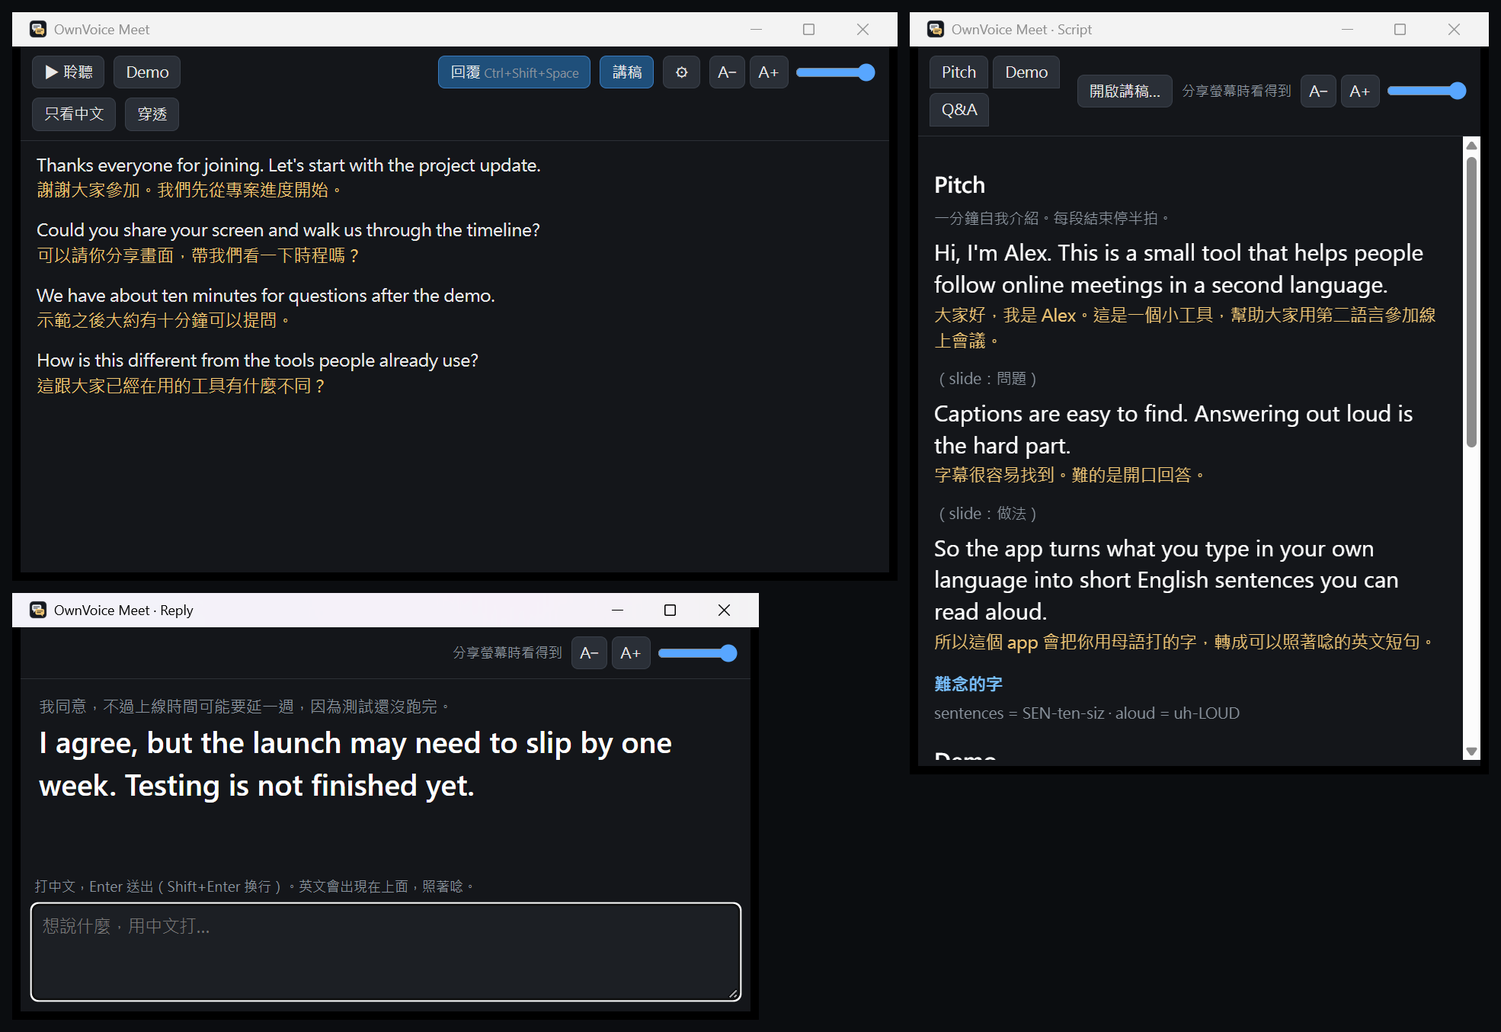
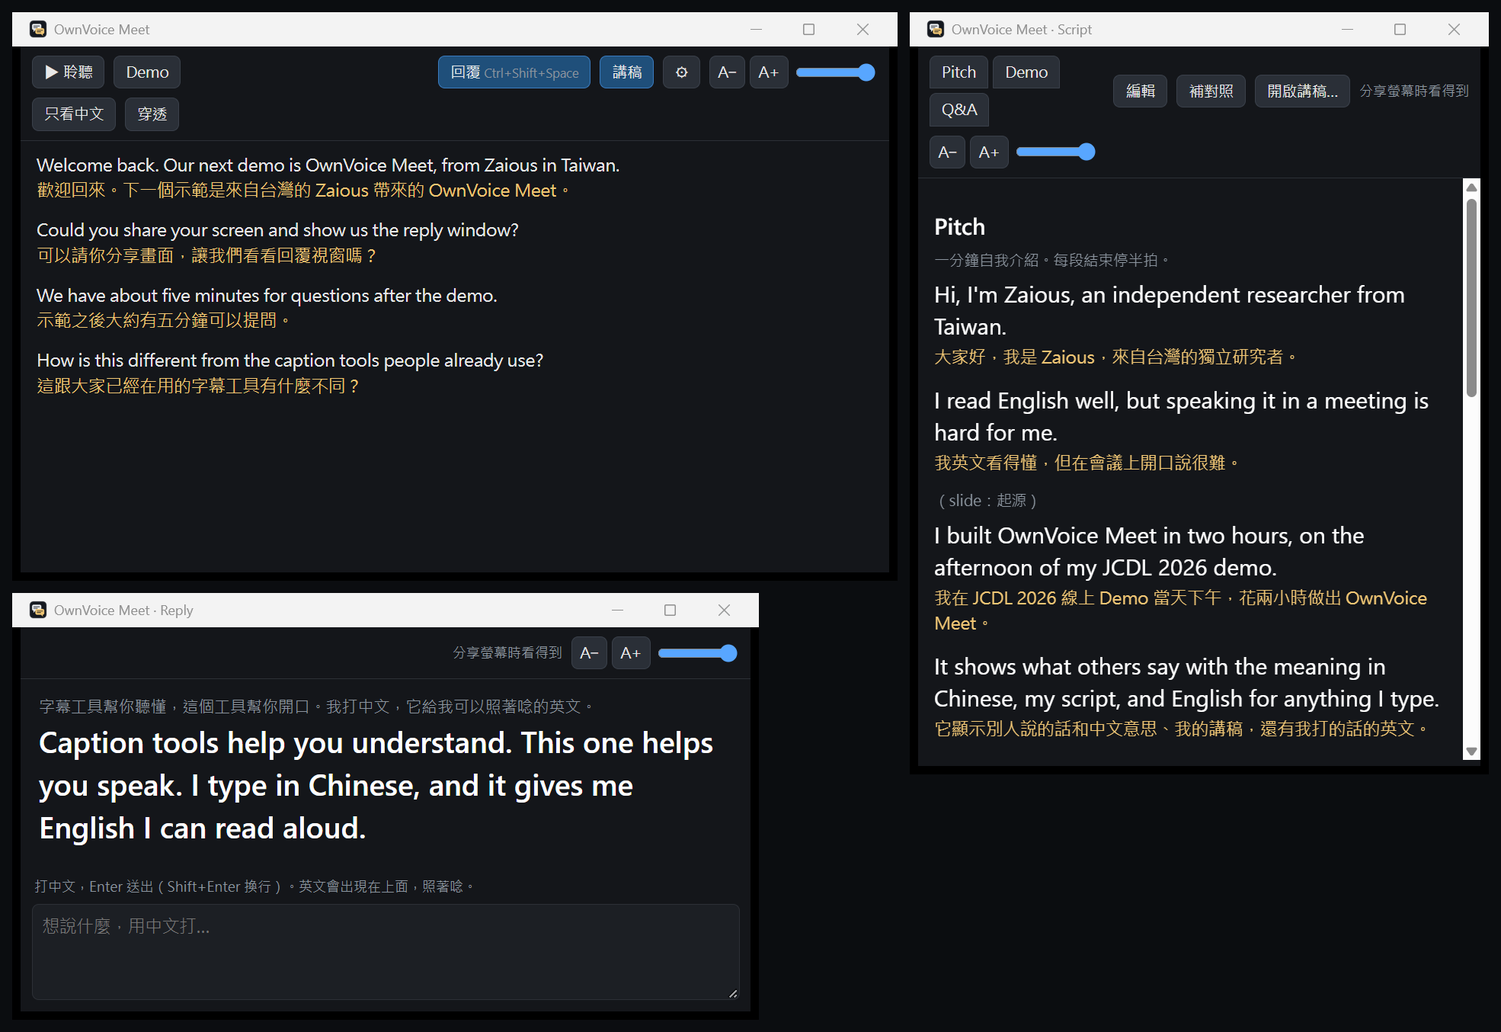
Demo introduces the author; README in Chinese first
- Demo captions, script and sample reply now introduce Zaious and
  OwnVoice Meet instead of a made-up speaker; overview screenshot retaken
- README: Chinese first for the Chinese-speaking audience, full English
  section after it

diff --git a/src-tauri/src/demo.rs b/src-tauri/src/demo.rs
@@ -11,14 +11,14 @@ use tauri::{AppHandle, Emitter, Manager};
 use crate::session::{Reply, Segment, Session};
 
 const SCRIPT: &str = include_str!("../../examples/scripts/demo.md");
-const REPLY_ZH: &str = "我同意，不過上線時間可能要延一週，因為測試還沒跑完。";
-const REPLY_EN: &str = "I agree, but the launch may need to slip by one week. Testing is not finished yet.";
+const REPLY_ZH: &str = "字幕工具幫你聽懂，這個工具幫你開口。我打中文，它給我可以照著唸的英文。";
+const REPLY_EN: &str = "Caption tools help you understand. This one helps you speak. I type in Chinese, and it gives me English I can read aloud.";
 
 const LINES: &[(&str, &str)] = &[
-    ("Thanks everyone for joining. Let's start with the project update.", "謝謝大家參加。我們先從專案進度開始。"),
-    ("Could you share your screen and walk us through the timeline?", "可以請你分享畫面，帶我們看一下時程嗎？"),
-    ("We have about ten minutes for questions after the demo.", "示範之後大約有十分鐘可以提問。"),
-    ("How is this different from the tools people already use?", "這跟大家已經在用的工具有什麼不同？"),
+    ("Welcome back. Our next demo is OwnVoice Meet, from Zaious in Taiwan.", "歡迎回來。下一個示範是來自台灣的 Zaious 帶來的 OwnVoice Meet。"),
+    ("Could you share your screen and show us the reply window?", "可以請你分享畫面，讓我們看看回覆視窗嗎？"),
+    ("We have about five minutes for questions after the demo.", "示範之後大約有五分鐘可以提問。"),
+    ("How is this different from the caption tools people already use?", "這跟大家已經在用的字幕工具有什麼不同？"),
 ];
 
 pub fn start(app: AppHandle) {

diff --git a/README.md b/README.md
@@ -1,18 +1,112 @@
 # OwnVoice Meet
 
+**聽得懂會議，用自己的聲音回答。**
+
+*Understand the meeting. Answer in your own voice.* · [English](#english)
+
+給英文「看得懂、說不太出口」的人。想說什麼就用中文打，OwnVoice Meet 把它變成好唸的口語英文短句，你照著唸。話是你自己的，聲音也是你自己的。
+
+> 狀態：0.1.1，Windows。已經接上真實服務使用。架構說明見 [docs/ARCHITECTURE.md](docs/ARCHITECTURE.md)。
+
+![聽到提問並即時翻譯，講稿裡打開準備好的回答，中文回覆變成要唸的英文](docs/media/demo.gif)
+
+*用真實流程錄製（Gemini Live 聽、Claude Haiku 5.5 翻），講稿是作者在 JCDL 2026 用的那份：第一個問題右邊講稿裡已經準備好答案；第二個問題用中文打回覆，變成要唸的英文。提問是語音合成的。[MP4 版](docs/media/demo.mp4)。*
+
+**使用手冊：[docs/MANUAL.md](docs/MANUAL.md)**（安裝、開會流程、講稿、省錢組合、本機執行、常見問題）
+
+## 它做什麼
+
+三個視窗，用得到的才開，各自放在順手的位置。
+
+| 視窗 | 功能 |
+|---|---|
+| **回覆** | 打中文、按 Enter，大字英文出現，照著唸。它知道會議剛剛在講什麼、你的講稿裡寫了什麼，所以名字和術語會用對。在 Zoom、Teams 裡按 `Ctrl+Shift+Space` 就會叫出來。建議放在攝影機旁邊。 |
+| **字幕** | 別人說的英文即時出現，每句下面接著中文意思。 |
+| **講稿與備忘** | 你的簡報稿、準備好的回答和備忘，每行附中文意思，分頁顯示，連結和指令可以一鍵複製。直接在視窗裡寫（內建範本與格式說明），寫英文或中文都行：**補對照** 會補上另一半，英文句補中文意思，中文句補要唸的英文。會自動保存，下次打開還在。真實範例見 [JCDL 2026 講稿](examples/scripts/journal-atlas-jcdl2026.md)。 |
+
+每個視窗有自己的字級（A− / A+）和背景透明度，會記住。字幕可以只顯示中文，也可以讓滑鼠點擊穿過去操作下面的會議（用 `Ctrl+Shift+F8` 或系統匣圖示關掉）。分享螢幕時，回覆與講稿視窗不會出現在分享畫面、錄影和截圖裡（需 Windows 10 2004 以上；設定裡可以關）。字幕視窗不隱藏。
+
+## 它不做什麼
+
+它不會替你作答。沒有 AI 代寫的回答，也沒有合成語音：說什麼由你決定，也由你自己說出口。OwnVoice Meet 只幫你處理英文。
+
+## 起源
+
+我是 Zaious，來自台灣的獨立研究者（ChronicleCore Studio 編年史記工作室），英文看得懂、說不太出口。2026 年 10 月 16 日，我要在 JCDL 2026（ACM/IEEE 數位圖書館聯合會議）的線上 Demo 場發表：一分鐘簡報，接著在 breakout room 回答提問。當天下午我花大約兩小時做出第一版（Python、自己 GPU 上的 Whisper、Claude Haiku 5.5），開著它撐完 1.5 小時的場次：別人說話時看字幕和中文意思，旁邊是中英對照的講稿和準備好的回答，沒準備到的就用回覆框。
+
+那一整天的翻譯費用是 **0.11 美元**（Claude Haiku 5.5，Claude Console 數字）：輸入 5,570,065 個 token、輸出 28,585 個，包含開發時的測試。輸入大多是講稿：每次請求都會帶著它，名字和術語才會對；它從提示快取讀取，所以幾乎不花錢。語音辨識跑在自己的 GPU 上，不用錢。
+
+之後很多人來要這個工具。OwnVoice Meet 就是為了分享而重做的版本：語音辨識可以走雲端或在電腦上跑，不需要 GPU，服務也由你挑。那天晚上講稿的公開部分（簡報和準備好的回答）在 [examples/scripts/journal-atlas-jcdl2026.md](examples/scripts/journal-atlas-jcdl2026.md)。
+
+![Demo 模式，不需要 key：字幕、要唸的回覆、中英對照講稿](docs/images/overview.png)
+
+*按 **Demo** 就能看到三個視窗在做什麼，不需要音訊也不需要 key。*
+
+## 服務與費用
+
+用你自己的 key；設定裡有每家申請 key 的連結，key 存在系統的認證管理員。聽和翻各選一個：
+
+| 聽（語音辨識） | 翻（翻譯與回覆） |
+|---|---|
+| Gemini 3.5 Transcribe Live（即時，約每小時 0.54 美元） | Claude Haiku 5.5、Sonnet 5.5 |
+| OpenAI gpt-live-transcribe（即時，約每小時 1.02 美元） | OpenAI gpt-6-luna、gpt-6.1-sol |
+| OpenAI gpt-4o-mini-transcribe（一句講完才出字，約每小時 0.18 美元） | Gemini 3.5 Flash-Lite、3.8 Flash |
+| 自己電腦上的 Whisper 伺服器（免費） | 自己電腦上的 vLLM 或 Ollama（免費） |
+| Windows 11 即時輔助字幕（即時、免費、在電腦上辨識、不需要 key；實驗功能，設定會帶你完成一次性設定） | |
+
+長句子講到一半就會先翻（約 4 秒後，之後每 2 秒更新），不用等講者停下來；句子講完再換成完整翻譯。
+
+翻譯選最快一級時每小時只要幾美分（例如 Claude Haiku 5.5，忙碌的一小時約 0.03 美元）。設定裡每個選項都列出價格和實測速度，也會記錄估算用量。價格是官方牌價，實際以各家帳單為準。省錢組合見 [使用手冊第 6 節](docs/MANUAL.md#6-省錢)。
+
+<img src="docs/images/settings.png" alt="設定：每個選項的每小時價格、速度、強項、注意事項與需要什麼" width="380">
+
+全部在自己電腦上跑，只要在設定裡填網址：見 [docs/LOCAL.md](docs/LOCAL.md)。Apple 裝置上的選項（macOS 26）規劃中。
+
+## 隱私
+
+會議聲音會送到你選的語音辨識服務，文字送到你選的翻譯模型，用的是你自己的帳號。有些會議有保密要求，有些地方轉錄談話需要所有人同意，開始前請先確認。會拿免費層資料訓練的服務（Gemini 是），請用付費層的 key。選本機伺服器，一切都留在你的電腦；聽的部分選 Windows 即時輔助字幕也一樣。
+
+## 下載
+
+Windows 10、11，到 [Releases](https://github.com/Zaious/ownvoice-meet/releases)：
+
+- **安裝版**（`OwnVoice.Meet_<版本>_x64-setup.exe`）：只裝給目前使用者，不需要系統管理員權限。設定 → 檢查更新會找到新版，按「更新並重新啟動」會先驗證簽章再安裝。
+- **免安裝版**（`OwnVoice.Meet_<版本>_x64_portable.zip`）：解壓縮到任何地方，執行 `OwnVoice Meet.exe`。不會自己更新；檢查更新會連到下載頁。
+
+程式還沒有數位簽章，Windows 可能顯示「Windows 已保護您的電腦」：按「其他資訊」，再按「仍要執行」。兩種都需要 Microsoft Edge WebView2 Runtime（Windows 11 內建）。只有按「檢查更新」時才會連到 GitHub。
+
+## 從原始碼建置
+
+需要 Node.js 20+、Rust（stable），Windows 上需要 WebView2 Runtime（Windows 11 內建）。
+
+```
+npm install
+npx tauri dev
+```
+
+按 **Demo** 可以在沒有音訊和 key 的情況下看字幕。開發時把 `env.example` 複製成 `.env.local`（不會進 git）填入 key，debug 版會讀它。
+
+檢查：`npm test`、`npm run typecheck`，以及在 `src-tauri` 裡跑 `cargo test --lib`；CI 每次 push 都會跑。需要呼叫真實服務或喇叭的測試標為 ignored，清單在 [docs/ARCHITECTURE.md](docs/ARCHITECTURE.md)。
+
+## 支持作者
+
+如果它幫上你，歡迎到 [portaly.cc/chroniclecore](https://portaly.cc/chroniclecore) 贊助（設定 → 關於 也有連結）。
+
+## 授權
+
+Apache License 2.0，見 [LICENSE](LICENSE) 與 [NOTICE](NOTICE)；從其他專案移植的邏輯列在 [THIRD_PARTY_NOTICES.md](THIRD_PARTY_NOTICES.md)。以 OwnVoice Meet 為基礎的作品必須附上 NOTICE；「OwnVoice Meet」這個名稱不授權給其他作品使用。
+
+---
+
+## English
+
 **Understand the meeting. Answer in your own voice.**
 
-For people who join meetings, talks and Q&A in English but read it better than they speak it. Type what you mean in your own language; OwnVoice Meet turns it into short, natural English that you read aloud. The words are yours, and so is the voice.
+For people who join meetings, talks and Q&A in English but read it better than they speak it. Type what you mean in your own language; OwnVoice Meet turns it into short, natural English that you read aloud. The words are yours, and so is the voice. The interface is in Traditional Chinese for now.
 
-> Status: 0.1.1, Windows. Working with real services. See [docs/ARCHITECTURE.md](docs/ARCHITECTURE.md).
+Status: 0.1.1, Windows. Working with real services. See [docs/ARCHITECTURE.md](docs/ARCHITECTURE.md). The demo above was recorded with the real pipeline (Gemini Live listening, Claude Haiku 5.5 translating) and the author's JCDL 2026 script; the questions are text-to-speech.
 
-![A question is heard and translated, the prepared answer is open in the script, and a Chinese reply becomes English to read aloud](docs/media/demo.gif)
-
-*Recorded with the real pipeline (Gemini Live listening, Claude Haiku 5.5 translating) and the author's JCDL 2026 script: one question has a prepared answer on the right; for the other, a reply typed in Chinese becomes English to read aloud. The questions are text-to-speech. [MP4 version](docs/media/demo.mp4).*
-
-**使用手冊（中文）：[docs/MANUAL.md](docs/MANUAL.md)**, from installing to saving money and running everything locally.
-
-## What it does
+### What it does
 
 Three windows; use the ones you need and put each where it helps.
 
@@ -24,23 +118,19 @@ Three windows; use the ones you need and put each where it helps.
 
 Each window has its own text size (A− / A+) and background opacity, remembered between runs. Captions can show the translation only, and can let clicks pass through to the meeting underneath (turn it off with `Ctrl+Shift+F8` or the tray icon). When you share your screen, the Reply and Script windows stay off the share, recordings and screenshots (Windows 10 2004 or later; can be turned off in Settings). The Captions window is not hidden.
 
-## What it does not do
+### What it does not do
 
 It does not answer for you. There are no AI-written replies and no synthetic voice: you decide what to say, and you say it. OwnVoice Meet helps with the English.
 
-## How it started
+### How it started
 
-I'm an independent researcher from Taiwan, and I read English much better than I speak it. On 16 October 2026 I had an online demo at JCDL 2026, the ACM/IEEE Joint Conference on Digital Libraries: a one-minute pitch, then questions in breakout rooms. That afternoon I built a first version in about two hours (Python, Whisper on my own GPU, Claude Haiku 5.5) and kept it open through the whole 1.5-hour session: captions with the Chinese meaning while others spoke, my bilingual script and prepared answers beside them, and the reply box for anything I had not prepared.
+I'm Zaious, an independent researcher from Taiwan, and I read English much better than I speak it. On 16 October 2026 I had an online demo at JCDL 2026, the ACM/IEEE Joint Conference on Digital Libraries: a one-minute pitch, then questions in breakout rooms. That afternoon I built a first version in about two hours (Python, Whisper on my own GPU, Claude Haiku 5.5) and kept it open through the whole 1.5-hour session: captions with the Chinese meaning while others spoke, my bilingual script and prepared answers beside them, and the reply box for anything I had not prepared.
 
 Translation for that whole day cost **US$0.11** on Claude Haiku 5.5, according to the Claude Console: 5,570,065 input tokens and 28,585 output tokens, including the testing while I built it. Most of the input is the prepared script, which goes with every request so names and terms come out right; it is read from the prompt cache, which is why it costs so little. Speech recognition ran on my own GPU, so it cost nothing.
 
-Many people asked for the tool afterwards. OwnVoice Meet is that tool rebuilt to be shared: speech recognition in the cloud or on the device, so you do not need a GPU, and your choice of providers. The public part of that evening's script (the pitch and the prepared answers) is in [examples/scripts/journal-atlas-jcdl2026.md](examples/scripts/journal-atlas-jcdl2026.md).
+Many people asked for the tool afterwards. OwnVoice Meet is that tool rebuilt to be shared: speech recognition in the cloud or on the device, so you do not need a GPU, and your choice of providers. Press **Demo** to see all three windows without audio or keys.
 
-![Demo mode, no keys needed: captions, a reply to read aloud and a bilingual script](docs/images/overview.png)
-
-*Press **Demo** to see all three windows without audio or keys.*
-
-## Providers and cost
+### Providers and cost
 
 Bring your own keys; Settings links to each provider's key page, and keys are kept in the system keychain. Pick one option for listening and one for translation:
 
@@ -54,19 +144,13 @@ Bring your own keys; Settings links to each provider's key page, and keys are ke
 
 Long sentences are translated while they are still being spoken (after about 4 seconds, then every 2 seconds), so you are not left waiting for the speaker to pause; the final translation replaces it when the sentence ends.
 
-Translation costs a few cents an hour on the fastest models (for example Claude Haiku 5.5, about $0.03 for a busy hour). Settings shows every option with its price and measured speed, and tracks estimated usage. Prices are list prices; your provider's bill is the authority.
+Translation costs a few cents an hour on the fastest models (for example Claude Haiku 5.5, about $0.03 for a busy hour). Settings shows every option with its price, measured speed, strengths, cautions and what it needs, and tracks estimated usage. Prices are list prices; your provider's bill is the authority. Running everything locally is a matter of URLs in Settings: see [docs/LOCAL.md](docs/LOCAL.md). Apple on-device options (macOS 26) are planned.
 
-<img src="docs/images/settings.png" alt="Settings: each option with its hourly price, speed, strengths, cautions and what it needs" width="380">
-
-Each option in Settings shows its price, measured speed, strengths, cautions and what it needs, with a link to the provider's key page.
-
-Running everything locally is a matter of URLs in Settings: see [docs/LOCAL.md](docs/LOCAL.md). Apple on-device options (macOS 26) are planned.
-
-## Privacy
+### Privacy
 
 Meeting audio goes to the speech service you choose, and text to the language model you choose, under your own account. Some meetings are confidential, and some places require everyone's consent before a conversation is transcribed: check before you turn it on. Use paid-tier keys where the provider uses free-tier data for training (Gemini does). Local servers keep everything on your machine, and so does Windows Live Captions for listening.
 
-## Download
+### Download
 
 Windows 10 and 11, from [Releases](https://github.com/Zaious/ownvoice-meet/releases):
 
@@ -75,7 +159,7 @@ Windows 10 and 11, from [Releases](https://github.com/Zaious/ownvoice-meet/relea
 
 The builds are not code-signed yet, so Windows may say "Windows protected your PC": choose **More info**, then **Run anyway**. Both need the Microsoft Edge WebView2 Runtime, which Windows 11 includes. OwnVoice Meet contacts GitHub only when you press Check for updates.
 
-## Building from source
+### Building from source
 
 Requirements: Node.js 20+, Rust (stable), and on Windows the WebView2 runtime (included in Windows 11).
 
@@ -88,26 +172,6 @@ Press **Demo** to see captions without audio or keys. For development, copy `env
 
 Checks: `npm test`, `npm run typecheck`, and `cargo test --lib` in `src-tauri`; CI runs them on every push. Tests that call real services or need speakers are marked ignored; [docs/ARCHITECTURE.md](docs/ARCHITECTURE.md) lists them.
 
-## 中文說明
+### Support and license
 
-**聽得懂會議，用自己的聲音回答。**
-
-給英文「看得懂、說不太出口」的人：想說什麼就用中文打，OwnVoice Meet 把它變成好唸的口語英文短句，你照著唸。話是你自己的，聲音也是你自己的。旁邊有對方發言的英文字幕和中文意思，還能開一份中英對照的講稿與 Q&A 備忘。
-
-它不會替你作答：沒有 AI 代寫的回答，也沒有合成語音。
-
-**完整使用手冊：[docs/MANUAL.md](docs/MANUAL.md)**（安裝、開會流程、講稿、省錢組合、本機執行、常見問題）。
-
-**起源：** 作者是來自台灣的獨立研究者，英文看得懂、說不太出口。2026 年 10 月 16 日要在 JCDL 2026（ACM/IEEE 數位圖書館聯合會議）的線上 Demo 場發表，有一分鐘簡報和 breakout room 問答。當天下午花大約兩小時做出第一版，開著它撐完 1.5 小時的場次。那一整天 Claude Haiku 5.5 的翻譯費用是 **0.11 美元**（Claude Console 數字，含開發測試），語音辨識跑在自己的 GPU 上，不用錢。之後很多人來要這個工具，OwnVoice Meet 就是為了分享而重做的版本。
-
-**支持作者：** 如果它幫上你，歡迎到 [portaly.cc/chroniclecore](https://portaly.cc/chroniclecore) 贊助。
-
-下載（Windows 10、11）：到 [Releases](https://github.com/Zaious/ownvoice-meet/releases) 選安裝版（`…_x64-setup.exe`，只裝給目前使用者、不需系統管理員權限，可以在設定裡「檢查更新」後自動更新）或免安裝版（`…_x64_portable.zip`，解壓縮就能用，不會自己更新）。程式還沒有數位簽章，Windows 若顯示「Windows 已保護您的電腦」，按「其他資訊」再按「仍要執行」。
-
-## Support
-
-If OwnVoice Meet helps you, you can support the author at [portaly.cc/chroniclecore](https://portaly.cc/chroniclecore) (also linked from Settings > 關於).
-
-## License
-
-Apache License 2.0. See [LICENSE](LICENSE) and [NOTICE](NOTICE); logic ported from other projects is credited in [THIRD_PARTY_NOTICES.md](THIRD_PARTY_NOTICES.md). A work based on OwnVoice Meet must carry the NOTICE; the name "OwnVoice Meet" is not licensed for other works.
+If OwnVoice Meet helps you, you can support the author at [portaly.cc/chroniclecore](https://portaly.cc/chroniclecore). Apache License 2.0: see [LICENSE](LICENSE) and [NOTICE](NOTICE); logic ported from other projects is credited in [THIRD_PARTY_NOTICES.md](THIRD_PARTY_NOTICES.md). A work based on OwnVoice Meet must carry the NOTICE; the name "OwnVoice Meet" is not licensed for other works.

diff --git a/examples/scripts/demo.md b/examples/scripts/demo.md
@@ -1,32 +1,40 @@
 # Pitch
 ! 一分鐘自我介紹。每段結束停半拍。
-Hi, I'm Alex. This is a small tool that helps people follow online meetings in a second language.
-> 大家好，我是 Alex。這是一個小工具，幫助大家用第二語言參加線上會議。
+Hi, I'm Zaious, an independent researcher from Taiwan.
+> 大家好，我是 Zaious，來自台灣的獨立研究者。
+I read English well, but speaking it in a meeting is hard for me.
+> 我英文看得懂，但在會議上開口說很難。
 
-! （slide：問題）
-Captions are easy to find. Answering out loud is the hard part.
-> 字幕很容易找到。難的是開口回答。
+! （slide：起源）
+I built OwnVoice Meet in two hours, on the afternoon of my JCDL 2026 demo.
+> 我在 JCDL 2026 線上 Demo 當天下午，花兩小時做出 OwnVoice Meet。
+It shows what others say with the meaning in Chinese, my script, and English for anything I type.
+> 它顯示別人說的話和中文意思、我的講稿，還有我打的話的英文。
 
-! （slide：做法）
-So the app turns what you type in your own language into short English sentences you can read aloud.
-> 所以這個 app 會把你用母語打的字，轉成可以照著唸的英文短句。
+! （slide：重點）
+It never answers for me. The words are mine, and so is the voice.
+> 它不會替我回答。話是我自己的，聲音也是我自己的。
 
 ## 難念的字
-! sentences = SEN-ten-siz · aloud = uh-LOUD
+! researcher = ree-SER-cher · independent = in-dih-PEN-dent
 
 # Demo
-! 先在瀏覽器開好示範頁。
+! 先開好 GitHub 頁面。
 ```copy:link
-https://example.com/demo
+https://github.com/Zaious/ownvoice-meet
 ```
-Let me show you how it works with a real question.
-> 我用一個真實的問題示範給大家看。
+Let me show you how I answer a question I did not prepare for.
+> 我示範一下，遇到沒準備的問題時我怎麼回答。
 
 # Q&A
-Q: Does it work offline?
-> 問：可以離線使用嗎？
-Not by default. It uses cloud services with your own keys. You can point it at your own servers instead.
-> 預設不行。它用你自己的 key 呼叫雲端服務。你也可以改接自己架的伺服器。
+Q: Does it answer for you?
+> 問：它會替你回答嗎？
+No. I type what I mean in Chinese, and it gives me short English to read aloud.
+> 不會。我用中文打我想說的，它給我好唸的英文短句。
+Q: How much does it cost?
+> 問：要花多少錢？
+Translation cost about eleven cents for my whole conference day, with my own key.
+> 我整個研討會那天的翻譯費大約 0.11 美元，用我自己的 key。
 
 ## 救急句
 Sorry, could you repeat the question?

diff --git a/docs/MANUAL.md b/docs/MANUAL.md
@@ -1,6 +1,6 @@
 # OwnVoice Meet 使用手冊
 
-聽得懂會議，用自己的聲音回答。這份手冊從安裝講到開會、講稿、省錢與本機執行。英文版說明見 [README](../README.md)。
+聽得懂會議，用自己的聲音回答。這份手冊從安裝講到開會、講稿、省錢與本機執行。專案介紹見 [README](../README.md)。
 
 ---
 
